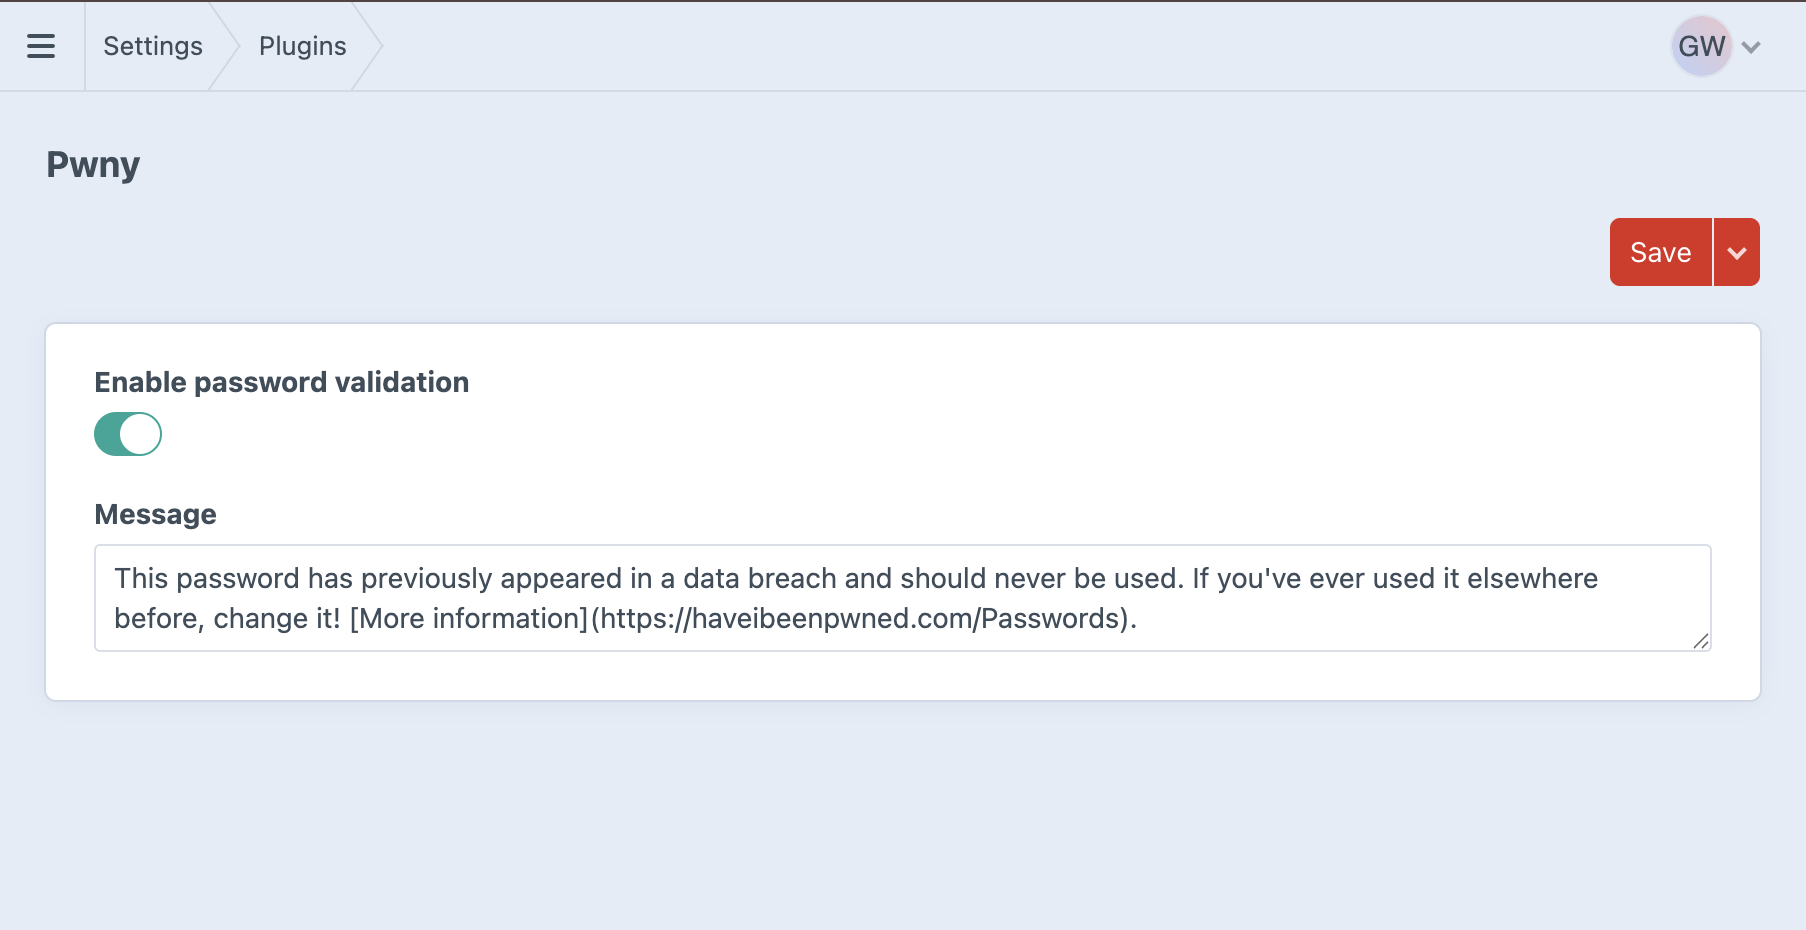
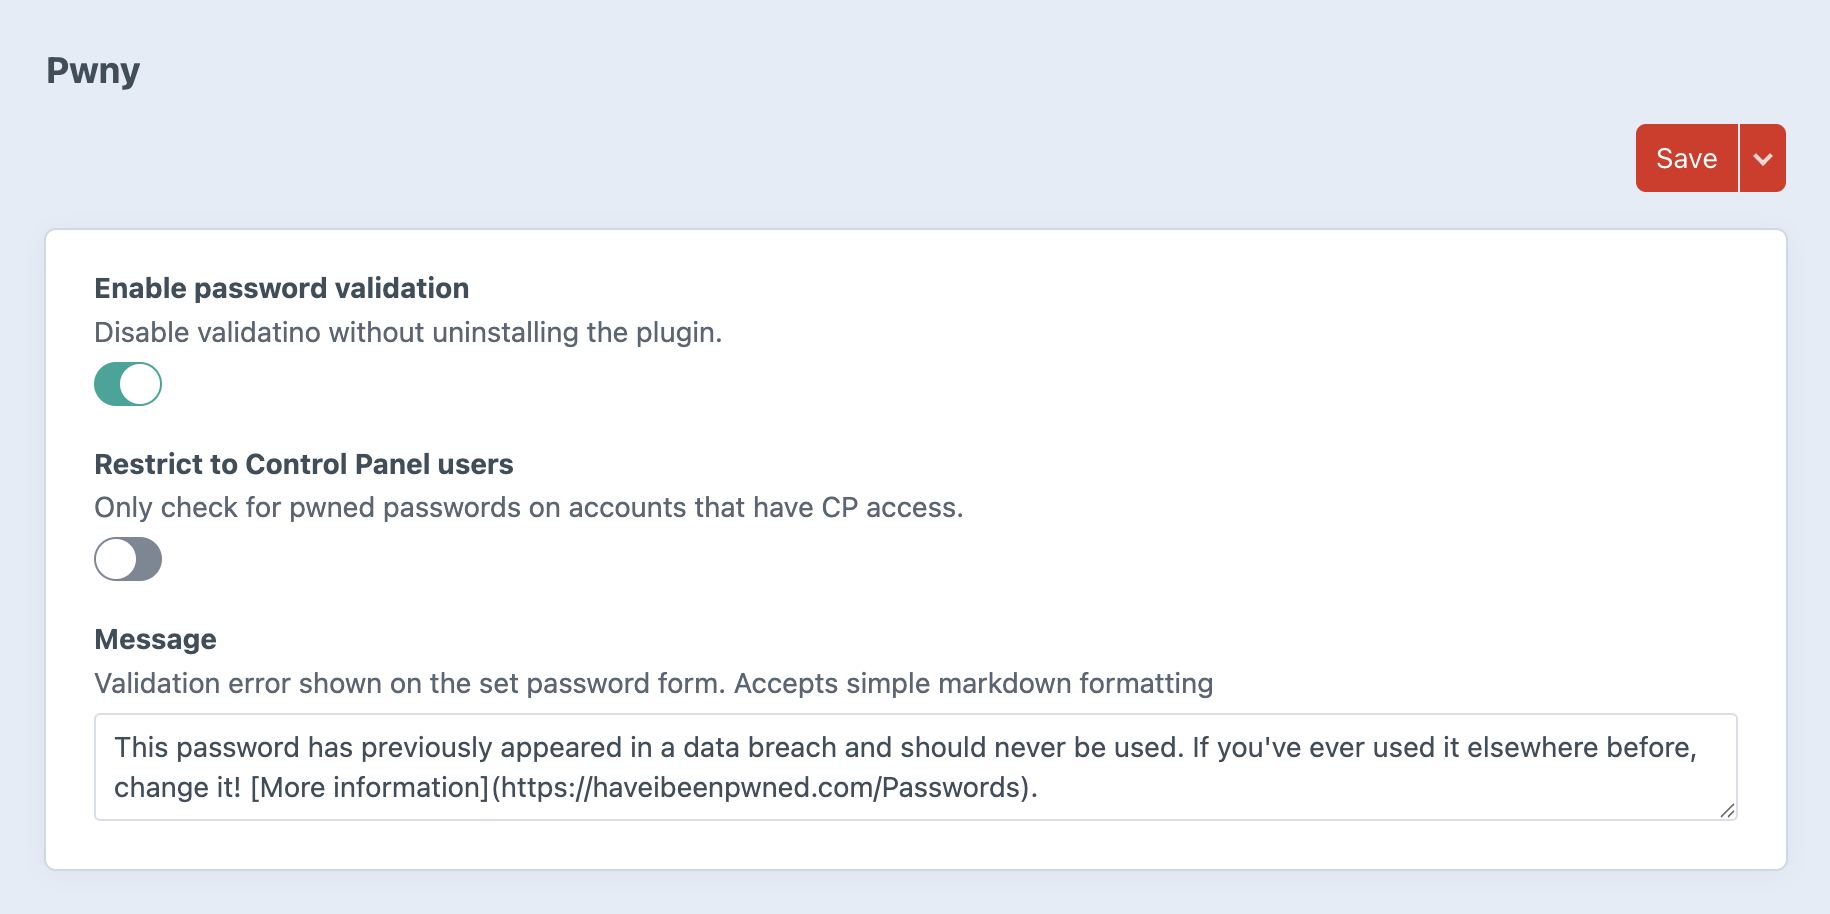
Add a setting to restrict validation to CP users only

diff --git a/src/Pwny.php b/src/Pwny.php
@@ -67,8 +67,13 @@ class Pwny extends Plugin
             function(ModelEvent $event) {
                 $user = $event->sender;
 
-                // User has set a new password
-                if ($user->newPassword) {
+				$restrictToCpUsers = Pwny::$plugin->settings['restrictToCpUsers'];
+
+				// If user can access CP, or we're checking all users and they've set a new password, run validation
+                if (
+					(!$restrictToCpUsers || $user->can('accessCp'))
+					&& $user->newPassword
+				) {
                     // Test against Have I Been Pwnd API
                     $error = $this->validate->apiCheck($user->newPassword);
                     $event->isValid = $error == false;

diff --git a/src/models/Settings.php b/src/models/Settings.php
@@ -8,12 +8,13 @@ namespace simplygoodwork\pwny\models;
 class Settings extends \craft\base\Model
 {
     public bool $enabled = true;
+	public bool $restrictToCpUsers = false;
     public string $message = "This password has previously appeared in a data breach and should never be used. If you've ever used it elsewhere before, change it! [More information](https://haveibeenpwned.com/Passwords).";
 
 	public function defineRules(): array
 	{
 		return [
-			[['enabled', 'message'], 'required'],
+			[['enabled', 'restrictToCpUsers', 'message'], 'required'],
 		];
 	}
 }

diff --git a/README.md b/README.md
@@ -28,9 +28,23 @@ ddev composer require "simplygoodwork/craft-pwny:^1.0.0" -w && ddev craft plugin
 
 ## Settings
 
-You can toggle the service and customise the error message.
+You can toggle the service, restrict to just users with CP access and customise the error message.
 
 ![Settings](./images/settings.png)
+
+If you want to toggle the plugin on/off using environment variables, you could create a `config/pwny.php` file to override this setting. 
+The example below uses `PWNY_ENABLED` in `.env` but defaults to `true` (on) if the variable can't be found:
+
+```php
+<?php
+
+use craft\helpers\App;
+
+return [
+	'enabled' => App::env('PWNY_ENABLED') ? App::env('PWNY_ENABLED') : true,
+];
+
+```
 
 ---
 
